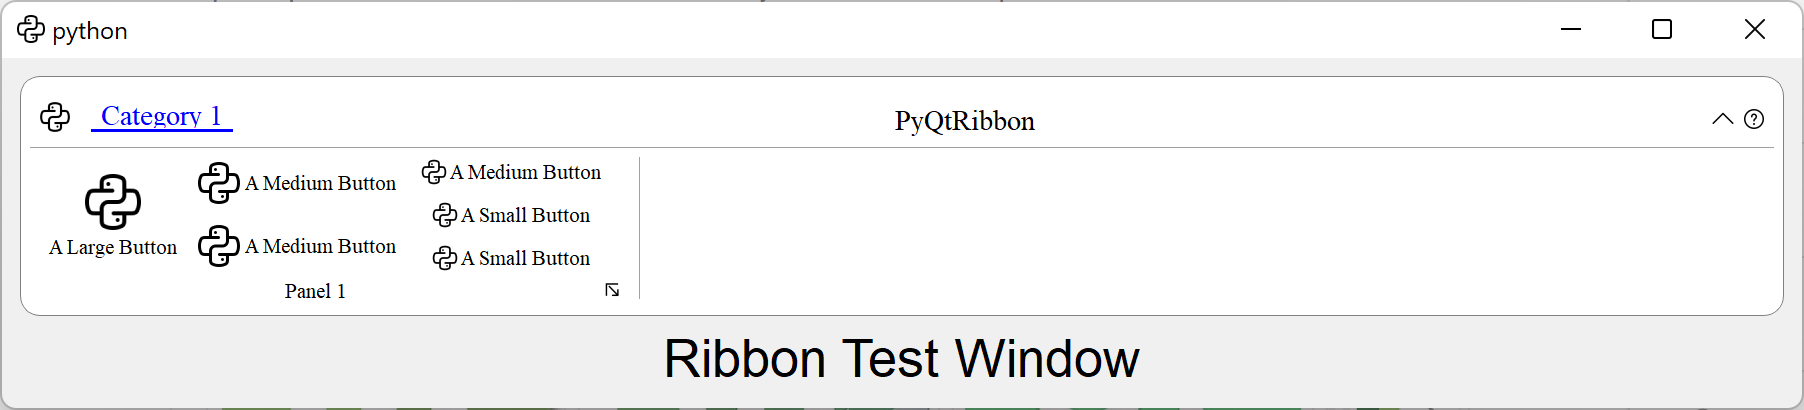
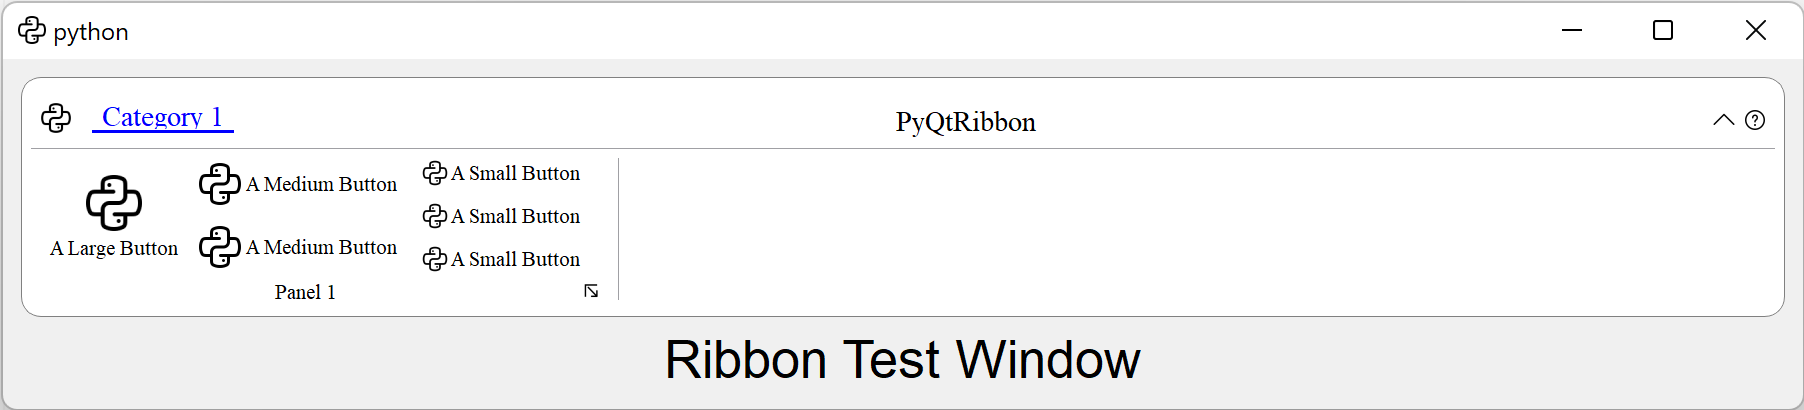
Update examples

diff --git a/docs/source/tutorial-mainwindow.py b/docs/source/tutorial-mainwindow.py
@@ -20,7 +20,7 @@ if __name__ == "__main__":
     panel.addLargeButton("A Large Button", QtGui.QIcon(data_file_path("icons/python.png")))
     panel.addMediumButton("A Medium Button", QtGui.QIcon(data_file_path("icons/python.png")))
     panel.addMediumButton("A Medium Button", QtGui.QIcon(data_file_path("icons/python.png")))
-    panel.addSmallButton("A Medium Button", QtGui.QIcon(data_file_path("icons/python.png")))
+    panel.addSmallButton("A Small Button", QtGui.QIcon(data_file_path("icons/python.png")))
     panel.addSmallButton("A Small Button", QtGui.QIcon(data_file_path("icons/python.png")))
     panel.addSmallButton("A Small Button", QtGui.QIcon(data_file_path("icons/python.png")))
     

diff --git a/docs/source/tutorial-ribbonbar.py b/docs/source/tutorial-ribbonbar.py
@@ -23,7 +23,7 @@ if __name__ == "__main__":
     panel.addLargeButton("A Large Button", QtGui.QIcon(data_file_path("icons/python.png")))
     panel.addMediumButton("A Medium Button", QtGui.QIcon(data_file_path("icons/python.png")))
     panel.addMediumButton("A Medium Button", QtGui.QIcon(data_file_path("icons/python.png")))
-    panel.addSmallButton("A Medium Button", QtGui.QIcon(data_file_path("icons/python.png")))
+    panel.addSmallButton("A Small Button", QtGui.QIcon(data_file_path("icons/python.png")))
     panel.addSmallButton("A Small Button", QtGui.QIcon(data_file_path("icons/python.png")))
     panel.addSmallButton("A Small Button", QtGui.QIcon(data_file_path("icons/python.png")))
     
